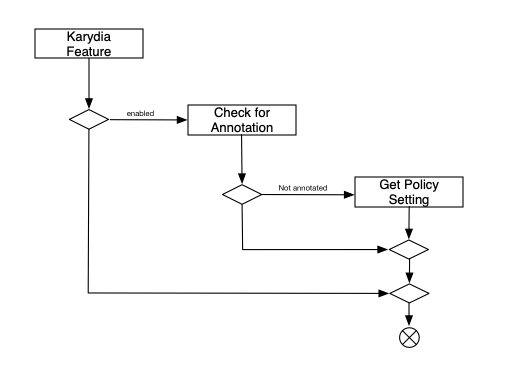
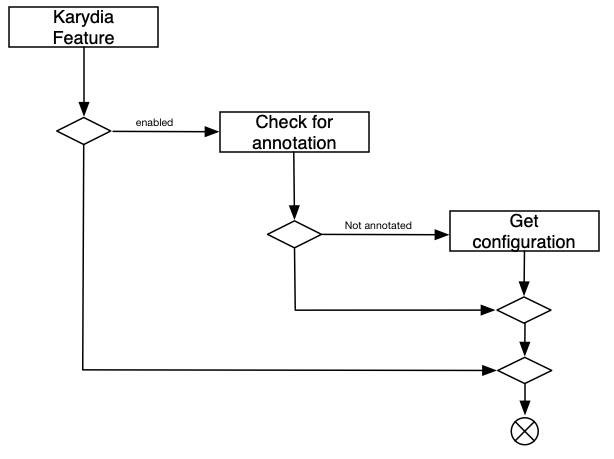
Update documentation corresponding to feedback

Changed region(s): [[0.0, 0.0, 0.9763, 0.992]]

diff --git a/docs/devel/architecture.md b/docs/devel/architecture.md
@@ -1,16 +1,16 @@
 # karydia Concepts
 ## Secure by Default
-The mission of karydia is to configure kubernetes in a more secure way. Many kubernetes default settings are unsecure. When karydia is installed these defaults are revised and supervised. Most karydia features can be switched on centrally and configured on namespace level.  
+The mission of karydia is to configure kubernetes in a more secure way. Many kubernetes default settings are unsecure. When karydia is installed these defaults are revised and supervised. Most karydia features can be switched on centrally and configured on namespace or pod level.  
 
 ## Configuration
-karydia provides the possibility to select the security features which should be used and supervised in a kubernetes cluster (deployment.yml). More specific settings can be made in a [KarydiaSecurityPolicy](/manifests/../../example-karydia-security-policy.yml). If these settings shall be adapted for a selected namespace it is possible to overwrite it with an annotation.
+karydia provides the possibility to select and configure the security features which should be used and supervised in a kubernetes cluster. If these settings shall be adapted for a selected namespace or pod it is possible to overwrite it with an annotation.
 
-![Configuration of karydia](../images/Configuration.png)
+![Configuration of karydia](https://github.com/karydia/karydia/blob/master/install/charts/values.yaml)
 
-The network policy configuration deviates from this blueprint. It combines its configuration in separate files. There are several options of default network policies with different security levels. The default can be specified in a karydia ConfigMap which must be deployed before installation [Deploy Karydia](https://github.com/karydia/karydia/blob/master/docs/install.md).
+The network policy configuration deviates from this blueprint. There are several options of default network policies with different security levels. The default can be specified in a karydia configuration. It is also possible to add a custom specific implementation.
 
 ## Installation
-When karydia is installed it will spin up a karydia webhook and a karydia policy controller. The karydia policy controller will determine the difference between the current state and the configuration. If there are discrepancies karydia will level out it. That means for example if the network policy feature is enabled karydia will create a network policy for each relevant namespace. 
+When karydia is installed it will spin up a karydia admission webhook and a karydia policy controller. The karydia policy controller will determine the difference between the current state and the configuration. If there are discrepancies karydia will level out it. That means for example if the network policy feature is enabled karydia will create a network policy for each relevant namespace. 
 
 ![Installing karydia](../images/InstallKarydia.png)
 
@@ -24,7 +24,7 @@ After installation karydia will not:
 
 ## Operations
 ### Webhook
-karydia implements a webhook to influence security settings. This means if a pod is created or modified without a "seccomp", "service account token", ... annotation the webhook will add a corresponding annotation with the defaults from the active KarydiaSecurityPolicy. 
+karydia implements an admission webhook to influence security settings. This means if a pod is created or modified without a "seccomp", "service account token", ... annotation the webhook will add a corresponding annotation with the defaults. 
 
 ![Installing karydia](../images/CreatePod.png)
 
